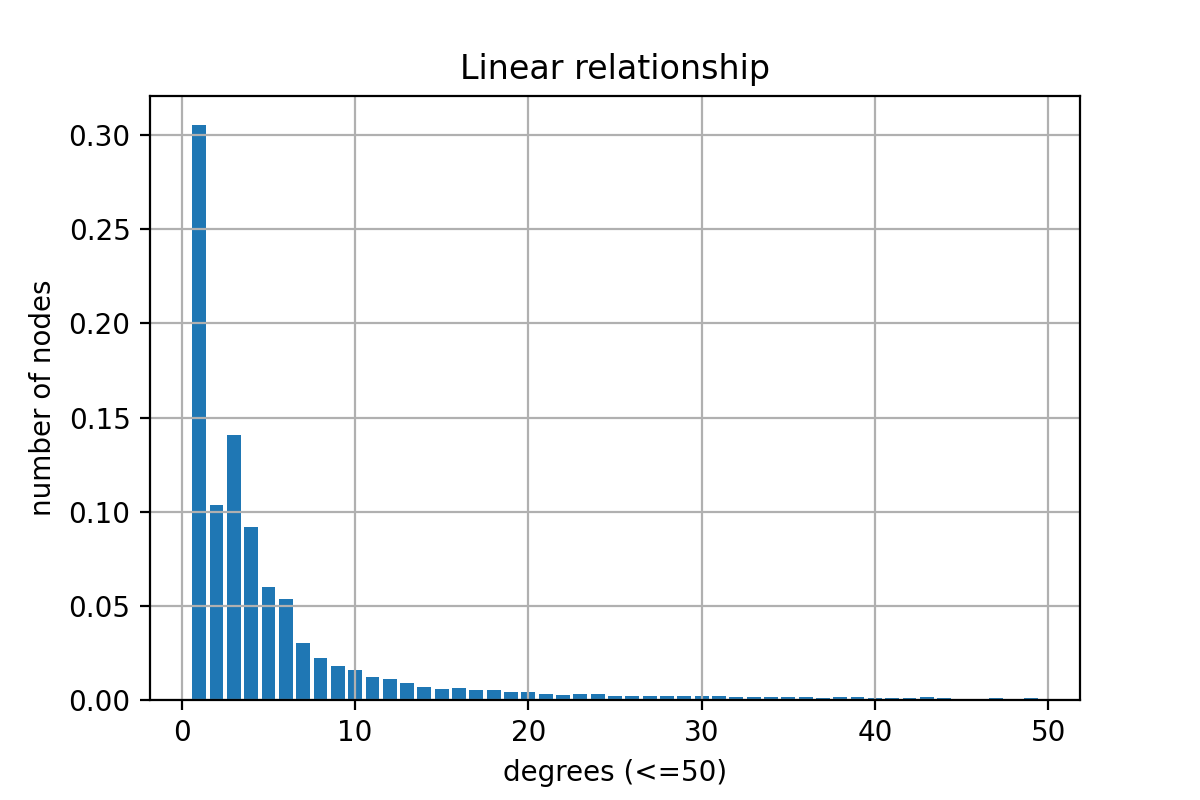
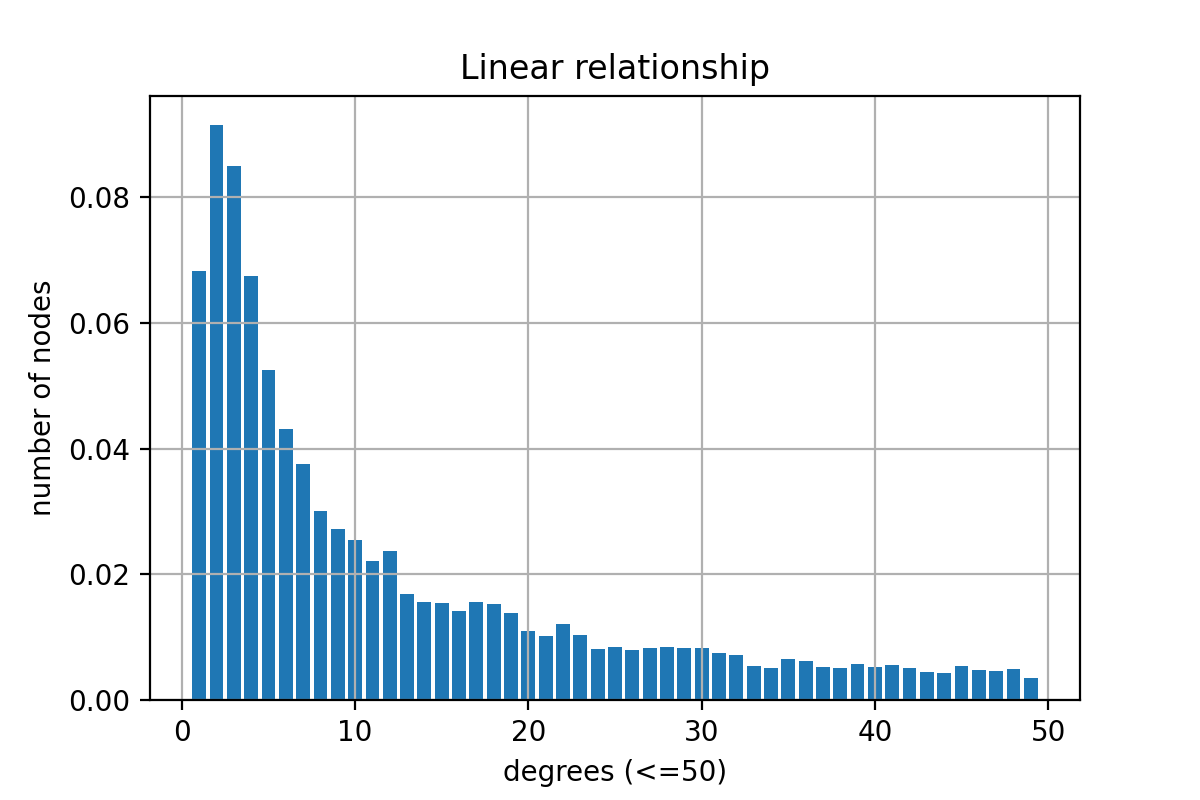
Added the astro data file and tried to work out a way to renumber the nodes in this file

diff --git a/network.py b/network.py
@@ -13,13 +13,21 @@ from math import factorial
 from math import exp
 #from collections import Counter
 
+
+
+
+# To see whether everything would work on a different network, I tried this one: https://snap.stanford.edu/data/ca-AstroPh.html
+# I think there's a problem with the renumbering. When trying to find the mean C for the astro graph, there are about 10 nodes which say they have 1 closed triangle, with only 1 neighbour. This is impossible.
+# Ignoring these +- 10 nodes, we do find the average clustering coefficient we're supposed to find, so we can probably assume that these 10 are the only ones that are annoying us.
+# The fitting to the Poisson distribution is very probably incorrect. I have not found the correct way of doing this yet.
+# Looking at the log log distribution of the Astro graph, it does seem that this is a network with scale.
+
 #################### TO DO ##########################################
 
 # scale free or non scale free? then choose another from https://snap.stanford.edu/data/index.html
-# see log graph
-# -> okay now what?
-
-# bonus: estimation of fit to poisson (random graph) and power law (scale free graph)
+# Improve fitting to the Poisson distribution
+# Find out what is going wrong in the renumbering of the astro network
+# Do a good reduced chisquared test. I think my version of the test is not working correctly
 
 ######################################################################
 
@@ -31,10 +39,30 @@ from math import exp
 
 # ii) adjacency matric A ===============================================================================================
 
+def renumber(old_list):
+    """
+    This function removes all duplicates from a list and then sorts from lowest to highest number.
+    Subsequently, the numbers in old_list are replaced with numbers from 0 to n, depending on where they are in the 
+    ranking from lowest to highest number.
+    """
+    new_list = old_list
+    no_duplicates = sorted(set(old_list))
+    length = len(no_duplicates)
+    no_duplicates = np.array(no_duplicates)
+
+    for a in range(length):
+        print("Now replacing the number of node %d of %d.\n" %(a, length))
+        for n, i in enumerate(new_list):
+            if i == no_duplicates[a]:
+                new_list[n] = a
+                
+    return new_list
+
 # creational pattern: builder pattern
 class NetworkBuilder:
-    def __init__(self, data_file):
+    def __init__(self, data_file, mode = ""):
         self._data_file = data_file
+        self.mode = mode
 
     def buildFromData(self):
 
@@ -55,6 +83,12 @@ class NetworkBuilder:
             line = adjacency_list[i].split()
             rowind.append(int(line[0]))
             colind.append(int(line[1]))
+
+        if self.mode == "renumber":
+            new_rowind = renumber(rowind)
+            rowind = new_rowind
+            new_colind = renumber(colind)
+            colind = new_colind
 
         self._A_size = max(rowind)+1
         self._A = np.zeros((self._A_size, self._A_size), dtype='uint8')
@@ -148,7 +182,10 @@ class Network:
 
         for i in range(self.A_size):
             #print("diagonal has value ", diagonal[i], "while degreelist has value ", self.DegreeList[i])
-            if diagonal[i] == 0:
+            if self.DegreeList[i] == 1 & diagonal[i] != 0:
+                print("diagonal has value ", diagonal[i], "while degreelist has value ", self.DegreeList[i], "at position", i, ".")
+                continue
+            if diagonal[i] == 0:         
                 continue
             C = C + diagonal[i]/(self.DegreeList[i]*(self.DegreeList[i] - 1))
 
@@ -301,46 +338,25 @@ N1.AverageNeighbourDegree()
 # %% vii & viii) Fitting to Poisson and power law ====================================================================
 N1.Fitting()
 
-# %% Trial for astro physics paper network ========================================================================
+# %% Run once ========================================================================
 
-n2 = NetworkBuilder("Astro")
+n2 = NetworkBuilder("Astro", "renumber")
 N2 = n2.buildFromData()
 
-# %%
-with open("Astro.txt") as data:
-            for i in range(4):
-                a = data.readline()	  # skip meta info
-                print(a)
-            adjacency_list = data.readlines()
+# %% run afterwards by importing ========================================================================
 
-length = len(adjacency_list)
+n2 = NetworkBuilder("Astro", "renumber")
+N2 = n2.buildByImport()
+# %% iii) clustering coefficient =====================================================================
+N2.GetMeanC()
 
-rowind = []
-colind = []
-for i in range(length):
-    line = adjacency_list[i].split()
-    rowind.append(int(line[0]))
-    colind.append(int(line[1]))
+# %% iv) probability mass function ============================================================================
+N2.plotDegDis('linear')
+N2.plotDegDis('loglog')
 
-rowind2 = sorted(set(rowind))
-length2 = len(rowind2)
-
-copyrowind = rowind
-
-nlist = np.array(range(length2))
-rowind2 = np.array(rowind2)
-
-t0 = time.time()
-
-for b in range(length2):
-    print("Now at ", b, "of ", length2, "\n")
-    for n, i in enumerate(rowind):
-        if i == rowind2[b]:
-            rowind[n] = b
-t1 = time.time()
-
-print("Total node renumbering time: ", t1-t0, "s.")
-
-    
+# %% v) avg degree of neighbours ===========================================================================
+N2.AverageNeighbourDegree()
+# %% vii & viii) Fitting to Poisson and power law =======================================================
+N2.Fitting()
 
 # %%
